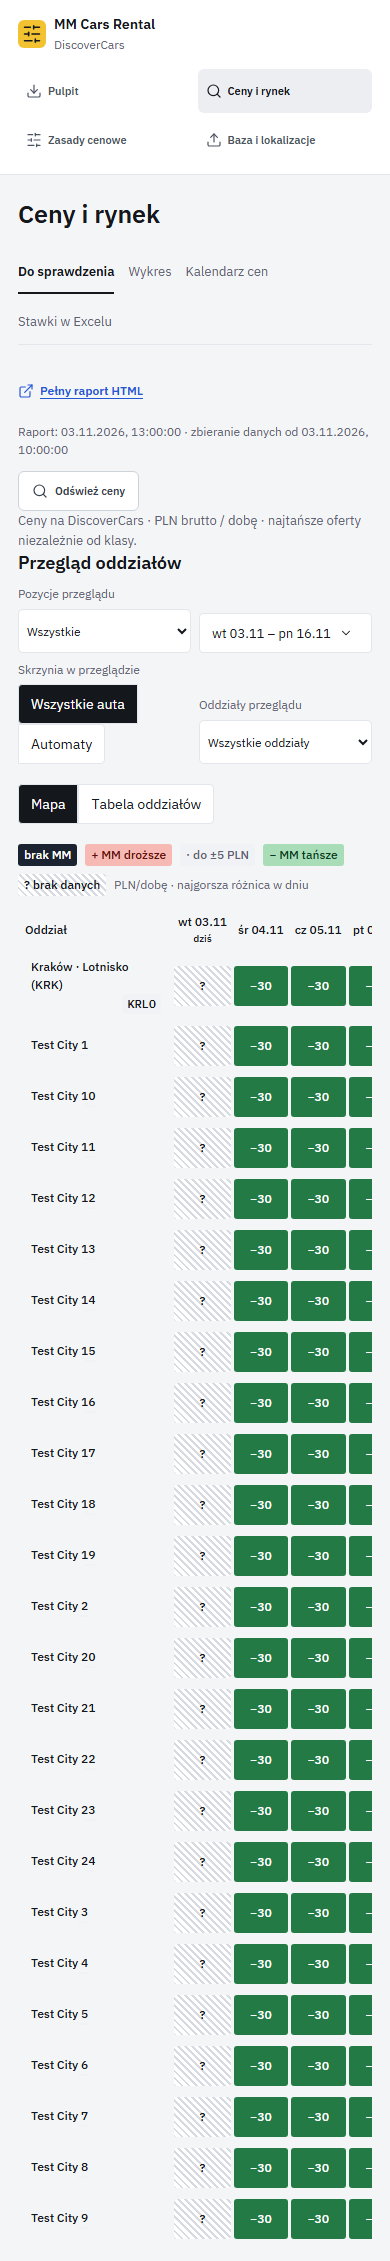
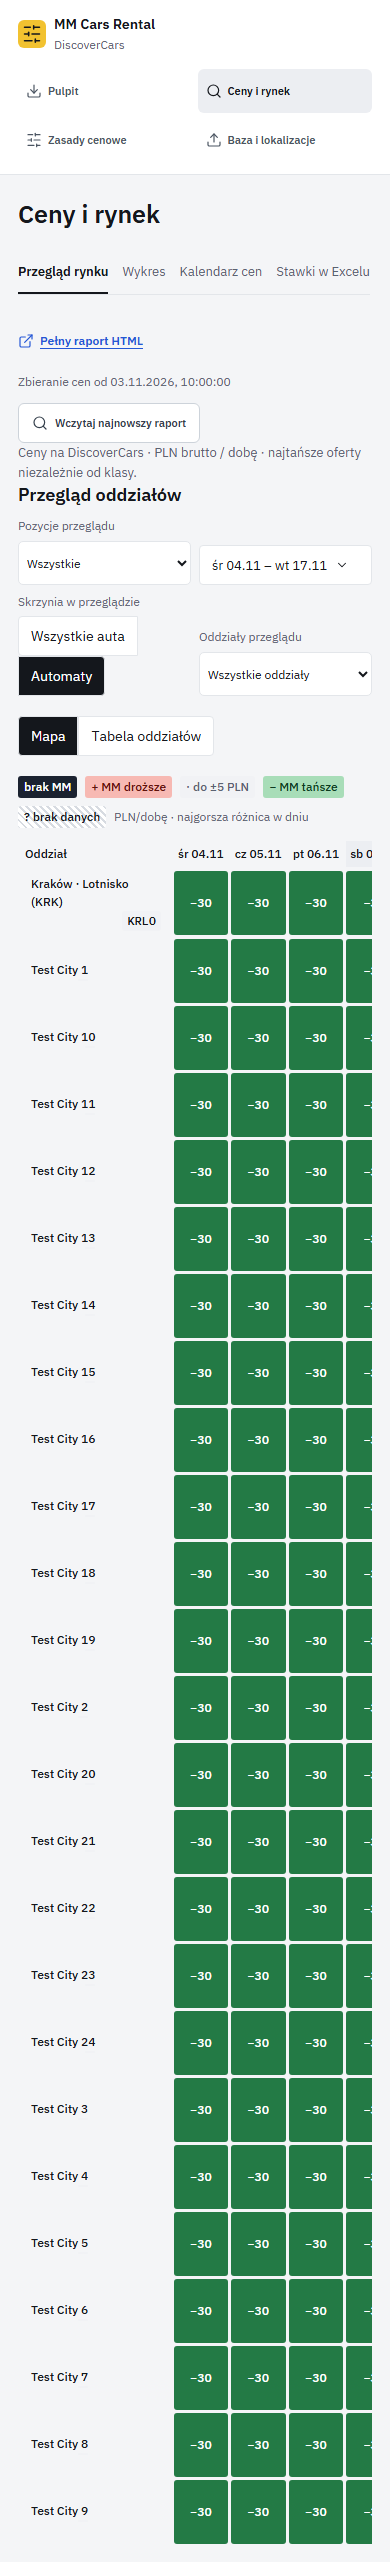
Share market filters, show partial availability and simplify price calendar

diff --git a/rules-panel/src/MarketWorkspace.jsx b/rules-panel/src/MarketWorkspace.jsx
@@ -15,12 +15,15 @@ import {locationLabel} from './operations.mjs';
 
 const dayLabel=day=>`${day.slice(8)}.${day.slice(5,7)}.${day.slice(0,4)}`;
 const shortMoney=value=>value===null?'—':new Intl.NumberFormat('pl-PL',{maximumFractionDigits:0,notation:value>=10000?'compact':'standard'}).format(value);
-const tabs=[['attention','Do sprawdzenia',ListFilter],['chart','Wykres',ChartLine],['calendar','Kalendarz cen',CalendarDays],['excel','Stawki w Excelu',FileSpreadsheet]];
+const tabs=[['attention','Przegląd rynku',ListFilter],['chart','Wykres',ChartLine],['calendar','Kalendarz cen',CalendarDays],['excel','Stawki w Excelu',FileSpreadsheet]];
 
 export function MarketWorkspace({model,workspace,service,calendar,market,request,onRules,active=true,rulesModel=model}) {
   const [view,setView]=useState('attention');const {data,busy,error,load}=market;const handledRequest=useRef(null);
-  const [kind,setKind]=useState('airport');const [location,setLocation]=useState('Krakow Airport (KRK)');const [transmission,setTransmission]=useState('all');
+  const [kind,setKind]=useState('all');const [location,setLocation]=useState('*');const [transmission,setTransmission]=useState('automatic');
   const [durations,setDurations]=useState([3]);const [from,setFrom]=useState('');const [to,setTo]=useState('');const [month,setMonth]=useState(warsawToday().slice(0,7));
+  const [calendarDuration,setCalendarDuration]=useState(3);
+  const shownDuration=durations.includes(calendarDuration)?calendarDuration:durations[0];
+  function changeFilters(patch){if('from' in patch)setFrom(patch.from);if('to' in patch)setTo(patch.to);if('transmission' in patch)setTransmission(patch.transmission);if('kind' in patch)setKind(patch.kind);if('location' in patch)setLocation(patch.location);}
   const [selected,setSelected]=useState(null);const neighbors=useRef([]);const selectRow=useCallback((row,items=[])=>{neighbors.current=items;setSelected(row);},[]);
   const [excelGroup,setExcelGroup]=useState(undefined);
   const [excelVisited,setExcelVisited]=useState(false);const [excelZone,setExcelZone]=useState('KRLO');const [excelDuration,setExcelDuration]=useState(3);
@@ -37,7 +40,7 @@ export function MarketWorkspace({model,workspace,service,calendar,market,request
     if ('to' in patch) setTo(patch.to);
   }
   const report=workspace?.status?.report;
-  useEffect(()=>{if(!data)return;const dates=[...new Set(data.rows.map(row=>row.date))].sort();const first=dates.find(day=>day>=warsawToday())??dates[0];if(first&&!from&&!to){setFrom(first);setTo([plusDays(first,13),dates.at(-1)].sort()[0]);setMonth(first.slice(0,7));}setLocation(old=>old==='*'||data.rows.some(row=>row.location===old)?old:'*');setSelected(null);},[data]);
+  useEffect(()=>{if(!data)return;const dates=[...new Set(data.rows.map(row=>row.date))].sort();const first=dates.find(day=>day>=warsawToday())??dates[0];if(first&&!from&&!to){setFrom(first);setTo(plusDays(first,13));setMonth(first.slice(0,7));}setLocation(old=>old==='*'||data.rows.some(row=>row.location===old)?old:'*');setSelected(null);},[data]);
   const locations=useMemo(()=>[...new Set((data?.rows??[]).filter(r=>kind==='all'||r.type===kind).map(r=>r.location))].sort(),[data,kind]);
   const rangeValid=validDate(from)&&validDate(to)&&from<=to&&Date.parse(to)-Date.parse(from)<366*86400000;
   const rows=useMemo(()=>rangeValid?(data?.rows??[]).filter(r=>r.transmission===transmission&&(kind==='all'||r.type===kind)&&(location==='*'||r.location===location)&&durations.includes(r.duration)&&r.date>=from&&r.date<=to):[],[data,kind,location,transmission,durations,from,to,rangeValid]);
@@ -46,7 +49,7 @@ export function MarketWorkspace({model,workspace,service,calendar,market,request
   const applicableZones=data?.locations?.find(l=>l.scraper_label===location)?.zones??[];
   const series=duration=>{const found=new Map(rows.filter(r=>r.duration===duration).map(r=>[r.date,r]));return days.map(date=>found.get(date)??{date,duration,location,transmission,mm:null,competitor:null,marketConfirmed:false,gap:null,missingScenario:true});};
   useEffect(()=>{setSelected(null);},[kind,location,transmission,durations,from,to,view,active]);
-  useEffect(()=>{if(!request||handledRequest.current===request.id||!data||!from||!to)return;handledRequest.current=request.id;setView('attention');selectRow(null);},[request,data,from,to,selectRow]);
+  useEffect(()=>{if(!request||handledRequest.current===request.id||!data||!from||!to)return;handledRequest.current=request.id;setView('attention');if(request.transmission)setTransmission(request.transmission);setLocation(request.row?.location??'*');setKind('all');selectRow(null);},[request,data,from,to,selectRow]);
   function preset(count){const dates=[...new Set(data.rows.map(r=>r.date))].sort();const start=dates.find(d=>d>=warsawToday())??dates[0];setFrom(start);setTo(count?([plusDays(start,count-1),dates.at(-1)].sort()[0]):dates.at(-1));setMonth(start.slice(0,7));}
   function changeMonth(value){const dates=monthDates(value);if(dates.length){setMonth(value);setFrom(dates[0]);setTo(dates.at(-1));}}
   function shiftMonth(step){const [y,m]=month.split('-').map(Number);changeMonth(new Date(Date.UTC(y,m-1+step,1)).toISOString().slice(0,7));}
@@ -56,7 +59,7 @@ export function MarketWorkspace({model,workspace,service,calendar,market,request
     <div className="market-toolbar"><ViewTabs items={tabs} value={view} onChange={setView} label="Widok cen"/>{reportLink&&<a className="text-button" href={reportLink} target="_blank" rel="noreferrer"><ExternalLink size={16}/>Pełny raport HTML</a>}</div>
     {excelVisited&&<div hidden={view!=='excel'}><PricesView selection={excelSelection} onSelectionChange={changeExcel} model={model} workspace={workspace} service={service}/></div>}
     <div hidden={view==='excel'}>
-      <div className="market-source"><span>{data?`Raport: ${timestamp(data.report.generatedAt)} · zbieranie danych od ${timestamp(data.report.sourceStartedAt)}`:report?`Dostępny raport: ${timestamp(report.generatedAt)}`:'Brak potwierdzonego raportu cenowego.'}</span><button className="button" disabled={busy||!report} onClick={load}><Search size={16}/>{busy?'Odczytywanie…':data?'Odśwież ceny':'Pokaż ceny'}</button></div>
+      <div className="market-source"><span>{data?`Zbieranie cen od ${timestamp(data.report.sourceStartedAt)}`:report?`Dostępny raport: ${timestamp(report.generatedAt)}`:'Brak potwierdzonego raportu cenowego.'}</span><button className="button" disabled={busy||!report} onClick={load}><Search size={16}/>{busy?'Odczytywanie…':data?'Wczytaj najnowszy raport':'Wczytaj raport'}</button></div>
       {error&&<div className="alert error" role="alert">{error}</div>}
       {busy&&<p role="status">Odczytywanie raportu cenowego…</p>}
 
@@ -65,18 +68,19 @@ export function MarketWorkspace({model,workspace,service,calendar,market,request
         {data.report.quality==='failure'&&<div className="alert">Dane rynku są dostępne. Ten przebieg nie opublikował nowych plików Excel.</div>}
         {Date.now()-Date.parse(data.report.sourceStartedAt)>86400000&&<div className="alert">Zbieranie danych rozpoczęło się ponad 24 godziny temu. Dokładny czas odczytu poszczególnych cen nie jest zapisany w tym raporcie.</div>}
       </>}
-      <div hidden={view!=='attention'||!data}><AttentionView active={active&&view==='attention'} rulesModel={rulesModel} onRules={onRules} onExcel={openExcel} calendar={calendar} model={model} workspace={workspace} service={service} key={request?.id??"default"} request={request} data={data} onSelect={selectRow} selected={selected}/></div>
+      <div hidden={view!=='attention'||!data}><AttentionView active={active&&view==='attention'} rulesModel={rulesModel} onRules={onRules} onExcel={openExcel} filters={{from,to,transmission,kind,location}} onFilters={changeFilters} calendar={calendar} model={model} workspace={workspace} service={service} key={request?.id??"default"} request={request} data={data} onSelect={selectRow} selected={selected}/></div>
       {data&&<>
         <div hidden={view==='attention'} className="market-filters chart-filters"><label>Oddziały<select value={kind} onChange={e=>{setKind(e.target.value);setLocation('*');}}><option value="airport">Lotniska</option><option value="all">Wszystkie oddziały</option><option value="branch">Poza lotniskami</option></select></label><label>Lokalizacja rynku<select value={location} onChange={e=>setLocation(e.target.value)}><option value="*">Wszystkie lokalizacje</option>{locations.map(l=><option key={l} value={l}>{locationLabel(l)}</option>)}</select></label><label>Skrzynia<select value={transmission} onChange={e=>setTransmission(e.target.value)}><option value="all">Wszystkie auta</option><option value="automatic">Tylko automaty</option></select></label>
         {view==='calendar'?<DurationChips values={durations} onChange={setDurations}/>:<details className="duration-select"><summary>Długość najmu: {durations.length?durations.join(', '):'brak'} dni</summary><fieldset><legend>Długości najmu</legend>{Array.from({length:13},(_,i)=>i+2).map(d=><label key={d}><input type="checkbox" checked={durations.includes(d)} onChange={e=>setDurations(old=>e.target.checked?[...old,d].sort((a,b)=>a-b):old.filter(n=>n!==d))}/>{d} dni</label>)}</fieldset></details>}
-        <label>Start od<input type="date" value={from} onChange={e=>{setFrom(e.target.value);if(validDate(e.target.value))setMonth(e.target.value.slice(0,7));}}/></label><label>Start do<input type="date" value={to} onChange={e=>setTo(e.target.value)}/></label></div>
+        <details className="range-picker"><summary>{dayLabel(from)} – {dayLabel(to)}</summary><div><label>Start od<input type="date" value={from} onChange={e=>{setFrom(e.target.value);if(validDate(e.target.value))setMonth(e.target.value.slice(0,7));}}/></label><label>Start do<input type="date" value={to} onChange={e=>setTo(e.target.value)}/></label></div></details></div>
         <div hidden={view==='attention'} className="market-range" role="group" aria-label="Zakres dat">{[7,14,30,0].map(n=><button key={n} className="text-button" onClick={()=>preset(n)}>{n?`${n} dni`:'Cały raport'}</button>)}</div>
         {!rangeValid&&<p className="alert error">Wybierz prawidłowy zakres dat, nie dłuższy niż rok.</p>}
         {!durations.length&&<p className="alert">Wybierz co najmniej jedną długość najmu.</p>}
         <div hidden={view==='attention'} className="market-counts"><span><strong>{rows.length}</strong> sprawdzeń w filtrze</span><span>Top1: <strong>{rows.filter(r=>r.rank===1&&r.marketConfirmed).length}/{rows.filter(r=>r.rankLabel&&r.marketConfirmed).length}</strong> ocenionych</span><span>Brak MM: <strong>{rows.filter(r=>r.marketConfirmed&&r.mm===null).length}</strong></span><span>Bez potwierdzonych danych: <strong>{rows.filter(r=>!r.marketConfirmed).length}</strong></span></div>
-        {(view==='chart'||view==='calendar')&&location==='*'?<p>Wybierz jedną lokalizację. Zestawienie wszystkich lokalizacji jest w „Do sprawdzenia”.</p>:view==='chart'?durations.map(duration=><PriceChart key={duration} rows={series(duration)} scale={scale} duration={duration} onSelect={row=>selectRow(row,series(duration))}/>):view==='calendar'?<>
+        {(view==='chart'||view==='calendar')&&location==='*'?<p>Wybierz jedną lokalizację. Zestawienie wszystkich lokalizacji jest w „Przegląd rynku”.</p>:view==='chart'?durations.map(duration=><PriceChart key={duration} rows={series(duration)} scale={scale} duration={duration} onSelect={row=>selectRow(row,series(duration))}/>):view==='calendar'?<>
           <div className="calendar-month"><button className="icon-button" aria-label="Poprzedni miesiąc cen" title="Poprzedni miesiąc" onClick={()=>shiftMonth(-1)}><ChevronLeft size={18}/></button><strong>{monthLabel(month)}</strong><button className="icon-button" aria-label="Następny miesiąc cen" title="Następny miesiąc" onClick={()=>shiftMonth(1)}><ChevronRight size={18}/></button></div>
-          {durations.map(duration=><PriceCalendar key={duration} month={month} rows={series(duration)} duration={duration} events={calendar.items} zones={applicableZones} reportDates={data.report.startDates} onSelect={row=>selectRow(row,series(duration))}/>)}
+          <div className="segmented" role="group" aria-label="Długość widocznego kalendarza">{durations.map(d=><button key={d} aria-pressed={shownDuration===d} onClick={()=>setCalendarDuration(d)}>{d} dni</button>)}</div>
+          {[shownDuration].filter(Boolean).map(duration=><PriceCalendar key={duration} month={month} rows={series(duration)} duration={duration} events={calendar.items} zones={applicableZones} reportDates={data.report.startDates} onSelect={row=>selectRow(row,series(duration))}/>)}
           <p className="evidence-note">PLN/dobę, ceny na siatce zaokrąglone. + MM droższe · − MM tańsze · szary: różnica do ±5 PLN · brak MM: potwierdzony brak oferty · ?: brak danych. Dokładne kwoty w szczegółach.</p>
           {calendar.error&&<p className="freshness-warning">Nie potwierdzono oznaczeń wydarzeń. {calendar.error}</p>}
           <details className="technical-details"><summary>Wydarzenia i święta</summary><CalendarEvents calendar={calendar} model={model}/></details>

diff --git a/rules-panel/src/AttentionMap.jsx b/rules-panel/src/AttentionMap.jsx
@@ -14,8 +14,8 @@ export function AttentionMap({branches,dates,locations,events=[],onOpen}) {
     const zones=locations.find(item=>item.scraper_label===branch.location)?.zones??[];
     return <tr key={branch.location}><th scope="row"><button onClick={()=>onOpen(branch.location)}>{locationLabel(branch.location)} <span className="code">{zones[0]}</span></button></th>{branch.cells.map(cell=>{
      const entries=eventsForDay(events,cell.date,zones);
-     const description=cell.tone==='missing'?'Brak oferty MM':cell.tone==='nodata'?'Brak potwierdzonych danych':`MM ${cell.value>0?'droższe':'tańsze'} o ${Math.abs(cell.value).toLocaleString('pl-PL')} PLN/dobę`;
-     return <td key={cell.date}><button className={`map-cell tone-${cell.tone}`} aria-label={`${locationLabel(branch.location)}, ${weekdayDate(cell.date)}: ${description}${entries.length?' · '+entries.map(e=>e.title).join(', '):''}`} onClick={()=>onOpen(branch.location,cell.date)}>{cell.tone==='missing'?'brak':cell.tone==='nodata'?'?':cell.tone==='neutral'?'·':signedPrice(cell.value,0)}{entries.length>0&&<CalendarDays size={12}/>}</button></td>;
+     const description=(cell.missing?`Brak MM: ${cell.missing}/${cell.total} sprawdzeń, najem ${cell.missingDurations.join(', ')} dni. `:'')+(cell.tone==='missing'?'Brak oferty MM':cell.tone==='nodata'?'Brak potwierdzonych danych':`MM ${cell.value>0?'droższe':'tańsze'} o ${Math.abs(cell.value).toLocaleString('pl-PL')} PLN/dobę`);
+     return <td key={cell.date}><button className={`map-cell tone-${cell.tone}`} aria-label={`${locationLabel(branch.location)}, ${weekdayDate(cell.date)}: ${description}${entries.length?' · '+entries.map(e=>e.title).join(', '):''}`} onClick={()=>onOpen(branch.location,cell.date)}>{cell.tone==='missing'?'brak':cell.tone==='nodata'?'?':cell.tone==='neutral'?'·':signedPrice(cell.value,0)}{cell.missing>0&&<small title={`Najem: ${cell.missingDurations.join(', ')} dni`}>Brak MM: {cell.missing}/{cell.total}</small>}{entries.length>0&&<CalendarDays size={12}/>}</button></td>;
     })}<td className="map-total">{branch.problems}</td></tr>;
    })}</tbody></table>
   </div>

diff --git a/rules-panel/src/redesign.css b/rules-panel/src/redesign.css
@@ -51,3 +51,7 @@ body{background:var(--bg)}.brand-symbol{width:28px;height:28px;background:var(--
 @media(max-width:760px){.dashboard-heading{display:block}.dashboard-heading h2{font-size:20px}.dashboard-heading .button{margin-top:12px}.dashboard-metrics{grid-template-columns:repeat(2,minmax(0,1fr));gap:8px}.dashboard-metric{padding:12px}.dashboard-metric>strong{font-size:24px}.dashboard-urgent thead{display:none}.dashboard-urgent table,.dashboard-urgent tbody{display:block}.dashboard-urgent tbody tr{display:grid;grid-template-columns:repeat(2,minmax(0,1fr));border-bottom:1px solid var(--line);padding:10px 0}.dashboard-urgent th:first-child{grid-column:1/-1;width:auto}.dashboard-urgent td,.dashboard-urgent th{border:0;text-align:left}.dashboard-urgent td:before{content:attr(data-label);display:block;font-size:10px;color:var(--muted)}.dashboard-status{gap:12px}}
 .operations-dashboard{display:block}.operations-dashboard>.review-actions:empty{display:none}.operations-dashboard>.review-actions{margin:12px 0}.change-review-table td:nth-child(2),.change-review-table td:nth-child(3),.change-review-table td:nth-child(4){text-align:right}.band-detail .technical-details{margin:12px 0}.band-detail .band-scenarios td,.band-detail .band-scenarios th{padding-block:8px}
 @media(max-width:760px){.band-matrix>thead th:first-child{width:62px}.band-detail .band-scenarios .icon-button{padding:4px;width:40px;height:40px}.band-detail .band-scenarios abbr{text-decoration:none}}
+/* Keep partial availability readable without hiding comparable prices. */
+.attention-map .map-cell { min-height: 64px; display: flex; flex-direction: column; justify-content: center; align-items: center; gap: 3px; }
+.attention-map .map-cell small { font-size: 10px; white-space: normal; }
+.chart-filters .range-picker { min-width: 220px; }

diff --git a/rules-panel/src/AttentionView.jsx b/rules-panel/src/AttentionView.jsx
@@ -7,10 +7,12 @@ import {buildAttentionMap} from './attention-map.mjs';
 import {warsawToday,plusDays,validDate,dateRange} from './market-model.mjs';
 import {branchOverview,locationLabel} from './operations.mjs';
 import {BandMatrix} from './BandMatrix.jsx';
-export function AttentionView({data,onSelect,request,model,workspace,service,calendar,onRules,onExcel,active=true,rulesModel=model}) {
- const [from,setFrom]=useState(warsawToday);const [to,setTo]=useState(()=>plusDays(warsawToday(),13));
- const [transmission,setTransmission]=useState(request?.transmission??'all');const [kind,setKind]=useState('all');
- const [location,setLocation]=useState(request?.row?.location??'');
+export function AttentionView({data,onSelect,request,model,workspace,service,calendar,onRules,onExcel,active=true,rulesModel=model,filters,onFilters}) {
+ const {from,to,transmission,kind}=filters;
+ const location=filters.location==='*'?'':filters.location;
+ const setFrom=value=>onFilters({from:value}),setTo=value=>onFilters({to:value});
+ const setTransmission=value=>onFilters({transmission:value}),setKind=value=>onFilters({kind:value});
+ const setLocation=value=>onFilters({location:value||'*'});
  const [reason,setReason]=useState(request?.reason??'all');
  const [mode,setMode]=useState('map'),[highlight,setHighlight]=useState(request?.row?.date??'');
  const rangeValid=validDate(from)&&validDate(to)&&from<=to&&Date.parse(to)-Date.parse(from)<366*86400000;
